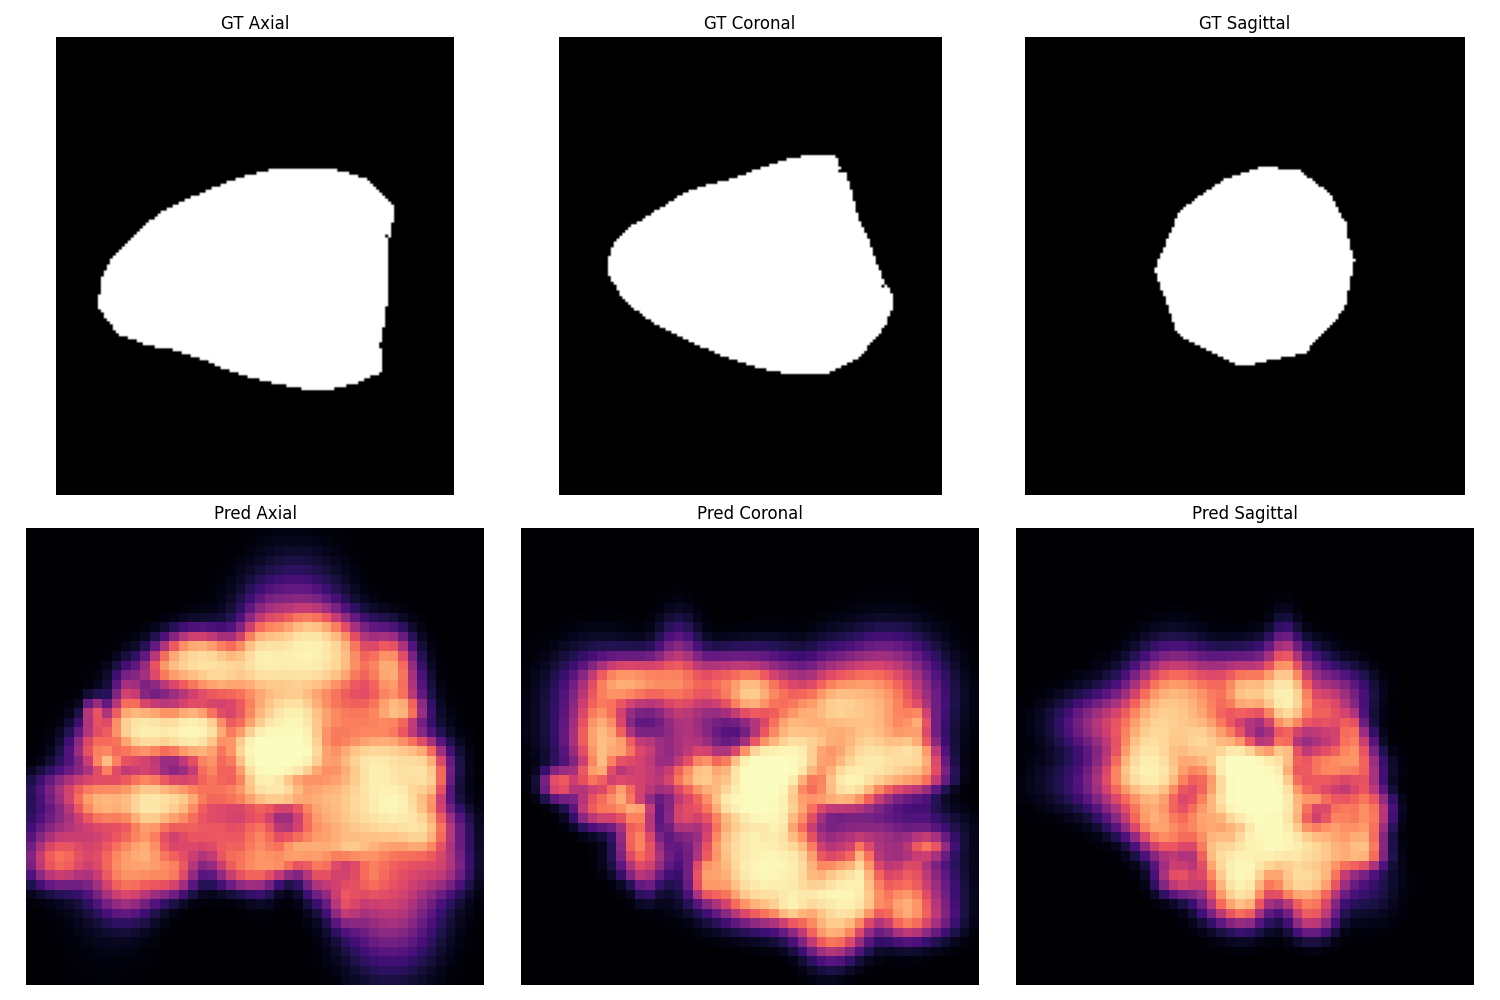
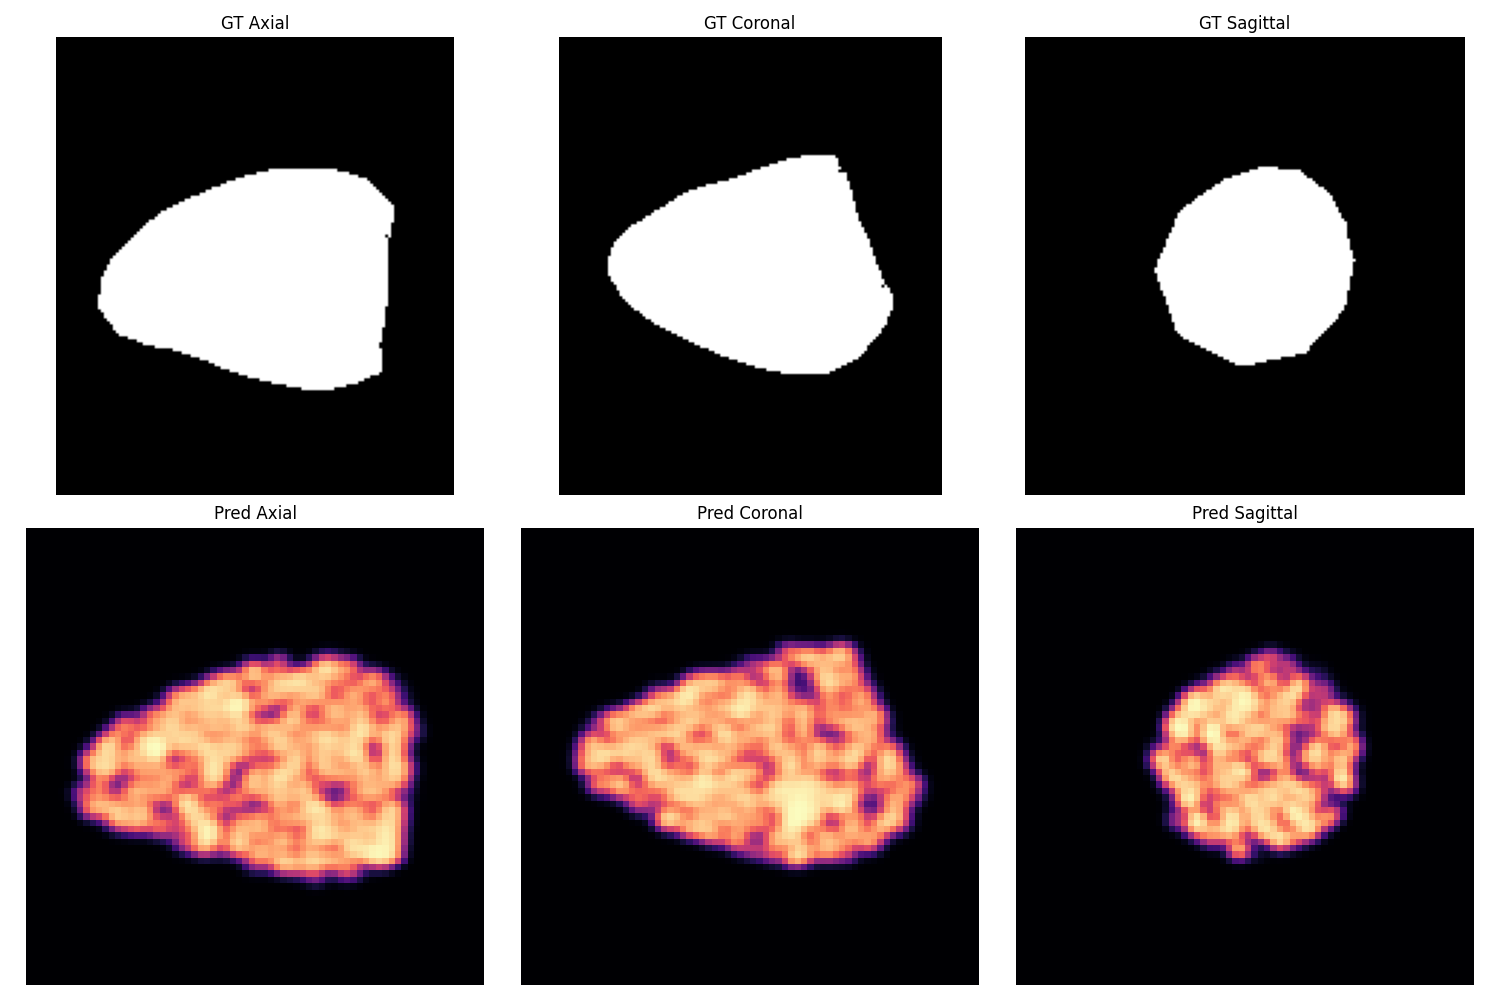
feat: improve reconstruction with mesh viewer

Changed region(s): [[0.0, 0.527, 0.6747, 0.992], [0.6747, 0.589, 0.9507, 0.961]]

diff --git a/docs/viewer.js b/docs/viewer.js
@@ -1,29 +1,27 @@
 async function loadViewer() {
   const target = document.getElementById("viewer");
-  const response = await fetch("assets/reconstruction_points.json");
-  const points = await response.json();
+  const response = await fetch("assets/reconstruction_mesh.json");
+  const mesh = await response.json();
 
   const trace = {
-    type: "scatter3d",
-    mode: "markers",
-    x: points.x,
-    y: points.y,
-    z: points.z,
-    marker: {
-      size: 3,
-      color: points.occupancy,
-      colorscale: [
-        [0, "#1d5f73"],
-        [0.5, "#e1b55d"],
-        [1, "#b84e35"]
-      ],
-      opacity: 0.82,
-      colorbar: {
-        title: "occupancy",
-        thickness: 12
-      }
+    type: "mesh3d",
+    x: mesh.x,
+    y: mesh.y,
+    z: mesh.z,
+    i: mesh.i,
+    j: mesh.j,
+    k: mesh.k,
+    color: "#0057b8",
+    opacity: 0.72,
+    flatshading: false,
+    lighting: {
+      ambient: 0.46,
+      diffuse: 0.78,
+      roughness: 0.72,
+      specular: 0.18
     },
-    hovertemplate: "x=%{x:.1f}<br>y=%{y:.1f}<br>z=%{z:.1f}<br>occ=%{marker.color:.3f}<extra></extra>"
+    lightposition: { x: 120, y: 80, z: 180 },
+    hovertemplate: "x=%{x:.1f}<br>y=%{y:.1f}<br>z=%{z:.1f}<extra></extra>"
   };
 
   const layout = {

diff --git a/docs/index.html b/docs/index.html
@@ -4,7 +4,7 @@
     <meta charset="utf-8">
     <meta name="viewport" content="width=device-width, initial-scale=1">
     <title>Cardiac Reconstruction Evolved</title>
-    <link rel="stylesheet" href="styles.css">
+    <link rel="stylesheet" href="styles.css?v=3">
     <script src="https://cdn.plot.ly/plotly-2.35.2.min.js"></script>
   </head>
   <body>
@@ -13,36 +13,36 @@
         <p class="eyebrow">Sparse cardiac imaging to 3D occupancy</p>
         <h1>Cardiac Reconstruction Evolved</h1>
         <p class="lead">
-          Stabilized Gaussian occupancy fields reconstruct a 3D cardiac label volume from sparse 2D slices, with direct visual and quantitative diagnostics.
+          Stabilized Gaussian occupancy fields reconstruct a 3D cardiac label volume, with a fitted mesh surface and direct visual diagnostics.
         </p>
       </header>
 
       <section class="metrics" aria-label="Reconstruction metrics">
         <article>
-          <span class="value">0.923</span>
+          <span class="value">0.966</span>
           <span class="label">sampled accuracy</span>
         </article>
         <article>
-          <span class="value">0.895</span>
+          <span class="value">0.950</span>
           <span class="label">sampled IoU</span>
         </article>
         <article>
-          <span class="value">500</span>
+          <span class="value">1800</span>
           <span class="label">Gaussians</span>
         </article>
         <article>
-          <span class="value">1</span>
-          <span class="label">working epoch</span>
+          <span class="value">600</span>
+          <span class="label">fit steps</span>
         </article>
       </section>
 
       <section class="section">
         <div class="section-heading">
           <h2>Interactive Reconstruction</h2>
-          <p>Predicted occupied points from the working checkpoint, sampled from the reconstructed volume.</p>
+          <p>Marching-cubes isosurface extracted from the fitted Gaussian occupancy volume.</p>
         </div>
         <div class="viewer-shell">
-          <div id="viewer" class="viewer" role="img" aria-label="Interactive 3D point cloud of the reconstructed cardiac occupancy field"></div>
+          <div id="viewer" class="viewer" role="img" aria-label="Interactive 3D mesh of the reconstructed cardiac occupancy field"></div>
         </div>
       </section>
 
@@ -68,12 +68,12 @@
         <p>
           The model initializes Gaussian centers from occupied voxels, uses non-saturating occupancy aggregation,
           and trains with sparse slice supervision plus sampled 3D occupancy points. The current run is intentionally small:
-          it verifies that the reconstruction path produces a measurable checkpoint and viewable artifacts.
+          it fits one subject directly to produce a clean reconstruction mesh and measurable artifacts.
         </p>
-        <pre><code>python3 src_code/scripts/train.py --epochs 1 --checkpoint-every 1 --run-dir runs/reconstruction_working_v01 --batch-size 1 --num-samples 512 --num-gaussians 500 --image-loss-weight 0.05 --sparse-loss-weight 0.01</code></pre>
+        <pre><code>python3 src_code/scripts/fit_subject_reconstruction.py --run-dir runs/subject_fit_v01 --split val --sample-index 0 --num-gaussians 1800 --num-samples 4096 --steps 600</code></pre>
       </section>
     </main>
 
-    <script src="viewer.js"></script>
+    <script src="viewer.js?v=2"></script>
   </body>
 </html>

diff --git a/docs/styles.css b/docs/styles.css
@@ -1,7 +1,7 @@
 :root {
   --ink: #111111;
   --muted: #4a5568;
-  --paper: #ffffff;
+  --paper: #f8fbff;
   --panel: #ffffff;
   --line: #d8dee8;
   --accent: #0057b8;

diff --git a/src_code/scripts/fit_subject_reconstruction.py b/src_code/scripts/fit_subject_reconstruction.py
@@ -1,0 +1,140 @@
+import argparse
+import os
+import sys
+
+project_root = os.path.abspath(os.path.join(os.path.dirname(__file__), "..", ".."))
+if project_root not in sys.path:
+    sys.path.append(project_root)
+
+import torch
+import torch.nn.functional as F
+import tqdm
+
+from src_code.src.data_loaders.mitea_loader import MITEADataset
+from src_code.src.utils.coord_utils import sample_volume_at_points
+
+DEFAULT_DATA_DIR = "/home/sofa/host_dir/cardiac_reconstruction_project/cap-mitea/mitea"
+
+
+def image_to_world(points_img, affine, device):
+    points_h = torch.cat([points_img, torch.ones(points_img.shape[0], 1, device=device)], dim=-1)
+    return (points_h @ affine.to(device).T)[:, :3]
+
+
+def initialize_params(volume, affine, num_gaussians, device):
+    occ_indices = torch.nonzero(volume)
+    if len(occ_indices) == 0:
+        raise ValueError("Selected sample has no occupied voxels.")
+
+    selected = occ_indices[torch.randint(0, len(occ_indices), (num_gaussians,))]
+    pts_img = selected[:, [2, 1, 0]].float().to(device)
+    means = image_to_world(pts_img, affine, device)
+
+    means = torch.nn.Parameter(means + torch.randn_like(means) * 0.4)
+    log_scales = torch.nn.Parameter(torch.full((num_gaussians, 3), 0.9, device=device))
+    raw_opacities = torch.nn.Parameter(torch.full((num_gaussians, 1), 1.4, device=device))
+    return means, log_scales, raw_opacities
+
+
+def gaussian_params(means, log_scales, raw_opacities):
+    return {
+        "means": means.unsqueeze(0),
+        "scales": F.softplus(log_scales).unsqueeze(0) + 0.35,
+        "opacities": torch.sigmoid(raw_opacities).unsqueeze(0),
+    }
+
+
+def evaluate_occupancy(points, params, chunk_size=1024):
+    means = params["means"]
+    scales = params["scales"]
+    opacities = params["opacities"]
+    values = []
+
+    for start in range(0, points.shape[1], chunk_size):
+        chunk = points[:, start:start + chunk_size]
+        diff = chunk.unsqueeze(2) - means.unsqueeze(1)
+        exponent = -0.5 * torch.sum((diff / (scales.unsqueeze(1) + 1e-8)) ** 2, dim=-1)
+        density = torch.sum(opacities.transpose(-1, -2) * torch.exp(exponent), dim=-1)
+        values.append(1.0 - torch.exp(-density))
+
+    return torch.cat(values, dim=1)
+
+
+def sample_points(volume, affine, num_samples, device):
+    occ_indices = torch.nonzero(volume)
+    num_pos = num_samples // 2
+    num_uniform = num_samples - num_pos
+
+    selected = occ_indices[torch.randint(0, len(occ_indices), (num_pos,))]
+    pts_pos_img = selected[:, [2, 1, 0]].float().to(device)
+    pts_pos_img = pts_pos_img + torch.randn_like(pts_pos_img) * 1.5
+
+    D, H, W = volume.shape
+    pts_uniform_img = torch.stack([
+        torch.rand(num_uniform, device=device) * (W - 1),
+        torch.rand(num_uniform, device=device) * (H - 1),
+        torch.rand(num_uniform, device=device) * (D - 1),
+    ], dim=-1)
+
+    points_img = torch.cat([pts_pos_img, pts_uniform_img], dim=0)
+    points_world = image_to_world(points_img, affine, device)
+    sample_weights = torch.cat([
+        torch.full((num_pos,), 1.5, device=device),
+        torch.full((num_uniform,), 2.0, device=device),
+    ]).unsqueeze(0)
+    return points_world.unsqueeze(0), sample_weights
+
+
+def fit(args):
+    os.makedirs(args.run_dir, exist_ok=True)
+    device = torch.device("cuda" if torch.cuda.is_available() else "cpu")
+    dataset = MITEADataset(args.data_dir, split=args.split)
+    sample = dataset[args.sample_index]
+    volume = sample["occupancy_ed"].to(device)
+    affine = sample["affine"].to(device)
+
+    means, log_scales, raw_opacities = initialize_params(volume, affine, args.num_gaussians, device)
+    optimizer = torch.optim.Adam([means, log_scales, raw_opacities], lr=args.lr)
+
+    pbar = tqdm.trange(args.steps, desc="Fitting subject")
+    for step in pbar:
+        points, sample_weights = sample_points(volume, affine, args.num_samples, device)
+        params = gaussian_params(means, log_scales, raw_opacities)
+        pred = evaluate_occupancy(points, params)
+        target = sample_volume_at_points([volume], points, affine.unsqueeze(0))
+        loss_occ = F.binary_cross_entropy(pred, target, weight=sample_weights)
+        loss_scale = torch.mean(F.softplus(log_scales))
+        loss_opacity = torch.mean(torch.sigmoid(raw_opacities))
+        loss = loss_occ + args.scale_loss_weight * loss_scale + args.opacity_loss_weight * loss_opacity
+
+        optimizer.zero_grad()
+        loss.backward()
+        optimizer.step()
+        pbar.set_postfix({"loss": f"{loss.item():.4f}", "occ": f"{loss_occ.item():.4f}"})
+
+    params = gaussian_params(means, log_scales, raw_opacities)
+    torch.save({
+        "type": "subject_gaussian_fit",
+        "split": args.split,
+        "sample_index": args.sample_index,
+        "num_gaussians": args.num_gaussians,
+        "means": params["means"].detach().cpu(),
+        "scales": params["scales"].detach().cpu(),
+        "opacities": params["opacities"].detach().cpu(),
+        "config": vars(args),
+    }, os.path.join(args.run_dir, "subject_fit.pth"))
+
+
+if __name__ == "__main__":
+    parser = argparse.ArgumentParser()
+    parser.add_argument("--data-dir", type=str, default=DEFAULT_DATA_DIR)
+    parser.add_argument("--run-dir", type=str, default="runs/subject_fit_v01")
+    parser.add_argument("--split", type=str, default="val")
+    parser.add_argument("--sample-index", type=int, default=0)
+    parser.add_argument("--num-gaussians", type=int, default=1800)
+    parser.add_argument("--num-samples", type=int, default=4096)
+    parser.add_argument("--steps", type=int, default=600)
+    parser.add_argument("--lr", type=float, default=3e-3)
+    parser.add_argument("--scale-loss-weight", type=float, default=0.002)
+    parser.add_argument("--opacity-loss-weight", type=float, default=0.01)
+    fit(parser.parse_args())

diff --git a/src_code/scripts/evaluate_3d.py b/src_code/scripts/evaluate_3d.py
@@ -18,9 +18,29 @@ from src_code.src.utils.coord_utils import sample_volume_at_points
 DEFAULT_DATA_DIR = "/home/sofa/host_dir/cardiac_reconstruction_project/cap-mitea/mitea"
 
 def infer_num_gaussians(checkpoint, fallback):
+    if checkpoint.get('type') == 'subject_gaussian_fit':
+        return int(checkpoint['num_gaussians'])
     state = checkpoint.get('gaussian_model_state_dict', {})
     means = state.get('means')
     return int(means.shape[0]) if means is not None else fallback
+
+def load_params(checkpoint, sample, device, latent_dim, num_gaussians):
+    if checkpoint.get('type') == 'subject_gaussian_fit':
+        return {
+            'means': checkpoint['means'].to(device),
+            'scales': checkpoint['scales'].to(device),
+            'opacities': checkpoint['opacities'].to(device),
+        }
+
+    encoder = LatentEncoder(3, latent_dim).to(device)
+    gaussian_model = GaussianModel(num_gaussians, latent_dim).to(device)
+    encoder.load_state_dict(checkpoint['encoder_state_dict'])
+    gaussian_model.load_state_dict(checkpoint['gaussian_model_state_dict'])
+    encoder.eval(); gaussian_model.eval()
+
+    input_ed = sample['sparse_slices_ed'].unsqueeze(0).to(device)
+    z_ed = encoder(input_ed)
+    return gaussian_model(z_ed)
 
 def image_to_world(points_img, affine, device):
     points_h = torch.cat([points_img, torch.ones(points_img.shape[0], 1, device=device)], dim=-1)
@@ -67,12 +87,6 @@ def evaluate_3d(args):
     checkpoint = torch.load(args.checkpoint, map_location=device)
     num_gaussians = infer_num_gaussians(checkpoint, args.num_gaussians)
 
-    encoder = LatentEncoder(3, args.latent_dim).to(device)
-    gaussian_model = GaussianModel(num_gaussians, args.latent_dim).to(device)
-    encoder.load_state_dict(checkpoint['encoder_state_dict'])
-    gaussian_model.load_state_dict(checkpoint['gaussian_model_state_dict'])
-    encoder.eval(); gaussian_model.eval()
-
     dataset = MITEADataset(args.data_dir, split=args.split)
     sample = dataset[args.sample_index]
     gt_vol = sample['occupancy_ed'].cpu().numpy() # (D, H, W)
@@ -102,18 +116,17 @@ def evaluate_3d(args):
     pts_img_coronal = torch.stack([grid_u, torch.ones_like(grid_u) * y_idx, grid_w], dim=-1).reshape(-1, 3)
 
     with torch.no_grad():
-        input_ed = sample['sparse_slices_ed'].unsqueeze(0).to(device)
-        z_ed = encoder(input_ed)
-        params_ed = gaussian_model(z_ed)
+        params_ed = load_params(checkpoint, sample, device, args.latent_dim, num_gaussians)
         
         pts_axial_world = (torch.cat([pts_img_axial, torch.ones(pts_img_axial.shape[0], 1)], dim=-1) @ affine.T)[:, :3].to(device)
-        occ_axial = gaussian_model.evaluate_occupancy(pts_axial_world.unsqueeze(0), params_ed).view(args.slice_resolution, args.slice_resolution).cpu().numpy()
+        model = GaussianModel(num_gaussians, args.latent_dim).to(device)
+        occ_axial = model.evaluate_occupancy(pts_axial_world.unsqueeze(0), params_ed).view(args.slice_resolution, args.slice_resolution).cpu().numpy()
         
         pts_coronal_world = (torch.cat([pts_img_coronal, torch.ones(pts_img_coronal.shape[0], 1)], dim=-1) @ affine.T)[:, :3].to(device)
-        occ_coronal = gaussian_model.evaluate_occupancy(pts_coronal_world.unsqueeze(0), params_ed).view(args.slice_resolution, args.slice_resolution).cpu().numpy()
+        occ_coronal = model.evaluate_occupancy(pts_coronal_world.unsqueeze(0), params_ed).view(args.slice_resolution, args.slice_resolution).cpu().numpy()
 
         metric_points, regions = sample_metric_points(gt_vol, affine, args.metric_points, device)
-        metric_pred = gaussian_model.evaluate_occupancy(metric_points.unsqueeze(0), params_ed)
+        metric_pred = model.evaluate_occupancy(metric_points.unsqueeze(0), params_ed)
         metric_target = sample_volume_at_points([sample['occupancy_ed']], metric_points.unsqueeze(0), affine.unsqueeze(0).to(device))
 
     pred_mask = metric_pred > args.threshold

diff --git a/src_code/scripts/visual_gallery.py b/src_code/scripts/visual_gallery.py
@@ -16,9 +16,27 @@ from src_code.src.models.gaussian_model import GaussianModel
 DEFAULT_DATA_DIR = "/home/sofa/host_dir/cardiac_reconstruction_project/cap-mitea/mitea"
 
 def infer_num_gaussians(checkpoint, fallback):
+    if checkpoint.get('type') == 'subject_gaussian_fit':
+        return int(checkpoint['num_gaussians'])
     state = checkpoint.get('gaussian_model_state_dict', {})
     means = state.get('means')
     return int(means.shape[0]) if means is not None else fallback
+
+def load_params(checkpoint, sample, device, latent_dim, num_gaussians):
+    if checkpoint.get('type') == 'subject_gaussian_fit':
+        return {
+            'means': checkpoint['means'].to(device),
+            'scales': checkpoint['scales'].to(device),
+            'opacities': checkpoint['opacities'].to(device),
+        }
+
+    encoder = LatentEncoder(3, latent_dim).to(device)
+    gaussian_model = GaussianModel(num_gaussians, latent_dim).to(device)
+    encoder.load_state_dict(checkpoint['encoder_state_dict'])
+    gaussian_model.load_state_dict(checkpoint['gaussian_model_state_dict'])
+    encoder.eval(); gaussian_model.eval()
+    z_ed = encoder(sample['sparse_slices_ed'].unsqueeze(0).to(device))
+    return gaussian_model(z_ed)
 
 def generate_gallery(args):
     device = torch.device("cuda" if torch.cuda.is_available() else "cpu")
@@ -26,13 +44,6 @@ def generate_gallery(args):
 
     checkpoint = torch.load(args.checkpoint, map_location=device)
     num_gaussians = infer_num_gaussians(checkpoint, args.num_gaussians)
-
-    encoder = LatentEncoder(3, args.latent_dim).to(device)
-    gaussian_model = GaussianModel(num_gaussians, args.latent_dim).to(device)
-
-    encoder.load_state_dict(checkpoint['encoder_state_dict'])
-    gaussian_model.load_state_dict(checkpoint['gaussian_model_state_dict'])
-    encoder.eval(); gaussian_model.eval()
 
     dataset = MITEADataset(args.data_dir, split=args.split)
     sample = dataset[args.sample_index]
@@ -52,9 +63,9 @@ def generate_gallery(args):
     pts_world = (pts_h @ affine_th.T)[:, :3].to(device)
 
     with torch.no_grad():
-        z_ed = encoder(sample['sparse_slices_ed'].unsqueeze(0).to(device))
-        params_ed = gaussian_model(z_ed)
-        occ_pred = gaussian_model.evaluate_occupancy(pts_world.unsqueeze(0), params_ed)
+        params_ed = load_params(checkpoint, sample, device, args.latent_dim, num_gaussians)
+        model = GaussianModel(num_gaussians, args.latent_dim).to(device)
+        occ_pred = model.evaluate_occupancy(pts_world.unsqueeze(0), params_ed)
         pred_vol = occ_pred.view(res, res, res).cpu().numpy()
 
     fig, axes = plt.subplots(2, 3, figsize=(15, 10))